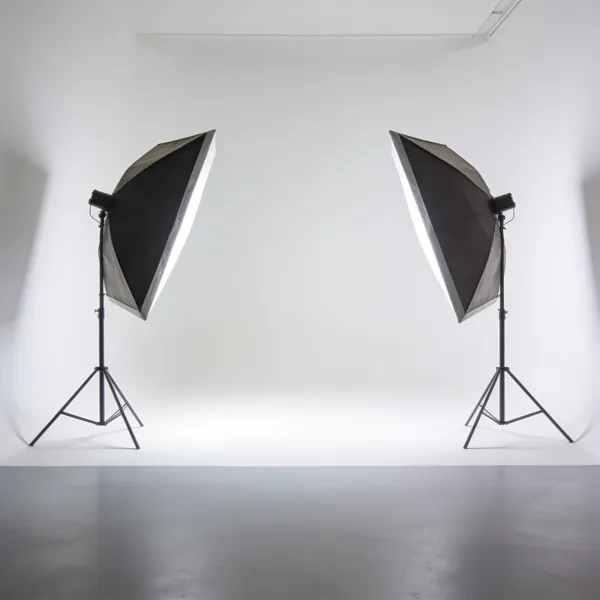
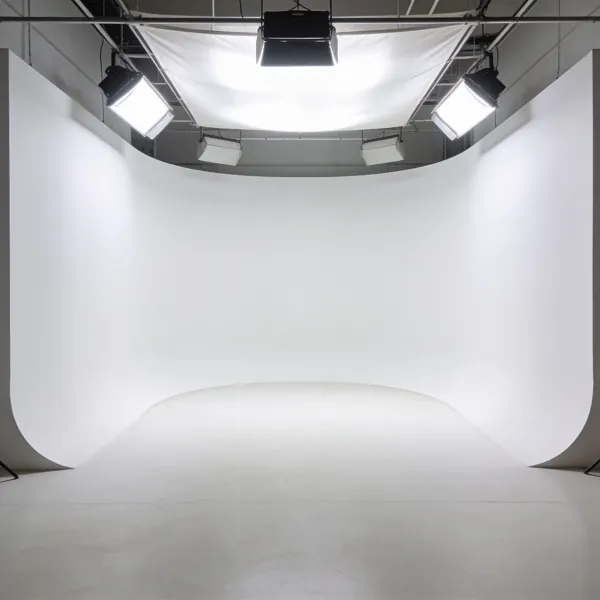
SEO landing: P_008 descritto come coda dei tipi affini, vicine ridotte da data-on, partial e variabili @ non opzionali in silenzio, home su URL/hreflang/switch da mappa, sfondo studio pulito, verify (vicine, sitemap, footer condizioni)

diff --git a/src/styles.css b/src/styles.css
@@ -208,7 +208,7 @@
   .pills::-webkit-scrollbar { display: none; }
   .pills button { position: relative; flex: none; min-height: 2.75rem; padding-inline: 1rem; border-radius: 9999px; font: 600 0.95rem var(--font-display); color: var(--color-dusk); transition: color 0.3s; }
   .pills button[aria-current="true"] { color: var(--color-cream); }
-  .pillbar { position: absolute; left: 0; top: 0; height: 2.75rem; border-radius: 9999px; background: rgba(255, 255, 255, 0.12); border: 1px solid rgba(255, 255, 255, 0.2);}
+  .pillbar { position: absolute; left: 0; top: 0; height: 2.75rem; border-radius: 9999px; background: rgba(255, 255, 255, 0.12); border: 1px solid rgba(255, 255, 255, 0.2); }
   .arrow { display: grid; place-items: center; width: 3rem; height: 3rem; border-radius: 9999px; border: 1px solid rgba(255, 255, 255, 0.25); font-size: 1.25rem; transition: background-color 0.2s, opacity 0.2s; }
   .arrow[aria-disabled="true"] { opacity: 0.3; }
   .arrow:not([aria-disabled="true"]):hover { background: rgba(255, 255, 255, 0.1); }
@@ -220,6 +220,7 @@
   .svc .num { margin-bottom: 0.75rem; font: 400 3.5rem / 1 var(--font-serif); letter-spacing: -0.02em; color: var(--color-primary); }
   .svc h3 { margin-top: 1.25rem; font: 700 1.375rem / 1.25 var(--font-display); }
   .svc .txt { flex: 1; margin-top: 0.5rem; font-size: 1rem; line-height: 1.55; color: var(--color-muted); }
+  html.js .svc:not([data-on]) { scale: 0.92; opacity: 0.5; }
   .more { display: inline-flex; align-items: center; gap: 0.5rem; width: fit-content; min-height: 2.75rem; margin-top: 0.75rem; font: 600 1rem var(--font-display); color: var(--color-primary); }
   .more i { font-style: normal; transition: translate 0.3s var(--ease-out-expo); }
   .more:hover i { translate: 0.35rem 0; }
@@ -242,8 +243,8 @@
   .agent small { display: block; font: 600 0.65rem var(--font-display); letter-spacing: 0.08em; text-transform: uppercase; color: #15803d; }
   .swap { display: grid; }
   .swap > * { grid-area: 1 / 1; }
-  .dots { display: flex; gap: 0.25rem; width: fit-content; }
-  .typing { display: flex; align-items: center; gap: 0.25rem; width: fit-content; opacity: 0; }
+  .dots, .typing { display: flex; align-items: center; gap: 0.25rem; width: fit-content; }
+  .typing { opacity: 0; }
   .typing i, .dots i { width: 0.4rem; height: 0.4rem; border-radius: 9999px; background: var(--color-muted); }
   .sq .rail, .th .rail { container-type: inline-size; }
   .sq .pcard, .th .pcard { flex: 0 0 6.75rem; }
@@ -253,7 +254,6 @@
   .sq .pmeta p, .th .pmeta p { display: block; font-size: 0.75rem; line-height: 1.25; }
   .sq .pmeta span, .th .pmeta span { display: block; color: var(--color-muted); }
   .mini .pcard { flex: 0 0 4rem; }
-  .mini .pmeta b { display: none; }
   .slide { display: flex; gap: 0.75rem; }
   .cycle { display: flex; flex-wrap: wrap; gap: 0.35rem; margin-bottom: 0.6rem; }
   .cycle .chip:first-child { background: var(--color-primary); color: #fff; }
@@ -266,7 +266,7 @@
   .ba-new { position: absolute; inset: 0; z-index: 1; overflow: hidden; translate: 50% 0; }
   .ba-new::before { content: ""; position: absolute; inset: 0 auto 0 0; z-index: 2; width: 2px; background: #fff; box-shadow: 0 0 12px rgba(0, 0, 0, 0.3); }
   .ba-in { position: absolute; inset: 0; translate: -50% 0; }
-  .ba-in .bg { object-fit: cover; }
+  .ba-in .bg { object-fit: cover; object-position: 50% 80%; }
   .ba-in .fg { mix-blend-mode: multiply; }
   .floor { position: absolute; inset: auto 22% 7% 22%; height: 7%; border-radius: 50%; background: rgba(40, 20, 0, 0.45); filter: blur(7px); }
   .vis .ba .chip { position: absolute; z-index: 3; bottom: 0.6rem; background: rgba(255, 255, 255, 0.92); box-shadow: 0 2px 8px rgba(0, 0, 0, 0.15); }
@@ -331,6 +331,7 @@ form.done > :not([role="status"], [data-done]), form:not(.done) [data-done] { di
   html { scroll-behavior: smooth; }
   .ctx { transition: opacity 0.5s var(--ease-out-expo), translate 0.5s var(--ease-out-expo); }
   .tabbar { transition: transform 0.4s var(--ease-out-expo); }
+  .svc { transition: scale 0.4s var(--ease-out-expo), opacity 0.4s; }
   .pillbar { transition: transform 0.4s var(--ease-out-expo), width 0.4s var(--ease-out-expo); }
   html.js [data-reveal], html.js [data-reveal-stagger] > * { opacity: 0; transform: translateY(28px) scale(0.98); filter: blur(10px); }
   html.js [data-split] { visibility: hidden; }
@@ -369,9 +370,6 @@ form.done > :not([role="status"], [data-done]), form:not(.done) [data-done] { di
     & .bars > span::before { animation: grow 0.8s var(--ease-out-expo) both; animation-delay: calc(0.9s + var(--b) * 0.12s); }
     & .shop { animation: float 5s ease-in-out infinite alternate; animation-delay: calc(var(--o) * -1.7s); }
   }
-  @supports (animation-timeline: view(inline)) {
-    .svc { animation: focus linear both; animation-timeline: view(inline); }
-  }
   @keyframes pop { from { opacity: 0; translate: 0 0.75rem; } }
   @keyframes typ { 0%, 100% { opacity: 0; } 15%, 85% { opacity: 1; } }
   @keyframes blink { 50% { opacity: 0.3; } }
@@ -384,7 +382,6 @@ form.done > :not([role="status"], [data-done]), form:not(.done) [data-done] { di
   @keyframes draw { from { stroke-dashoffset: 1; } }
   @keyframes grow { from { scale: 1 0; } }
   @keyframes float { to { transform: translateY(-5px); } }
-  @keyframes focus { 0%, 100% { scale: 0.92; opacity: 0.5; } 30%, 70% { scale: 1; opacity: 1; } }
 }
 
 @media (prefers-reduced-motion: reduce) {

diff --git a/vite.config.ts b/vite.config.ts
@@ -31,13 +31,17 @@ const twins = (dir: string) => (pages[dir].lang === "it" ? [dir, pages[dir].pair
 const render = (html: string, dir: string): string => {
   const { lang, id = "", pair } = pages[dir];
   const [it, en] = pair === undefined ? [dir, dir] : twins(dir);
-  const vars: Record<string, string> = { url: url(dir), it: url(it), en: url(en), other: `/${pair && `${pair}/`}`, otherLang: lang === "it" ? "en" : "it" };
+  const vars: Record<string, string> = { url: url(dir), it: url(it), en: url(en), otherLang: lang === "it" ? "en" : "it", ...(pair === undefined ? {} : { other: `/${pair && `${pair}/`}` }) };
   return html.replace(/\{\{(>?)([\w.$@-]+)\}\}/g, (_match, partial: string, key: string) => {
-    if (key.startsWith("@")) return vars[key.slice(1)];
+    if (key.startsWith("@")) {
+      if (!(key.slice(1) in vars)) throw new Error(`Variabile sconosciuta in ${dir || "home"}: ${key}`);
+      return vars[key.slice(1)];
+    }
     if (partial) {
       const name = key.replace("$id", id).replace("$lang", lang);
       const file = `src/partials/${name}.html`;
-      return (name.startsWith("pair-") && pair === undefined) || !existsSync(file) ? "" : render(readFileSync(file, "utf8"), dir);
+      const optional = (name.startsWith("pair-") && pair === undefined) || (name.startsWith("legal-") && !existsSync(file));
+      return optional ? "" : render(readFileSync(file, "utf8"), dir);
     }
     const full = key.startsWith("p.") ? `seo.${id}.${key.slice(2)}` : key;
     if (!(full in locales[lang])) throw new Error(`Chiave mancante in ${lang}.json: ${full}`);
@@ -50,7 +54,10 @@ const sitemap = `<?xml version="1.0" encoding="UTF-8"?>
 <urlset xmlns="http://www.sitemaps.org/schemas/sitemap/0.9" xmlns:xhtml="http://www.w3.org/1999/xhtml">
 ${Object.entries(pages)
   .filter(([, page]) => page.listed !== false)
-  .map(([dir, { pair }]) => `  <url>\n    <loc>${url(dir)}</loc>\n${pair === undefined ? "" : alternate("it", twins(dir)[0]) + alternate("en", twins(dir)[1]) + alternate("x-default", twins(dir)[0])}  </url>\n`)
+  .map(([dir, { pair }]) => {
+    const [it, en] = twins(dir);
+    return `  <url>\n    <loc>${url(dir)}</loc>\n${pair === undefined ? "" : alternate("it", it) + alternate("en", en) + alternate("x-default", it)}  </url>\n`;
+  })
   .join("")}</urlset>`;
 
 export default defineConfig({

diff --git a/src/page.html b/src/page.html
@@ -5,15 +5,13 @@
   <meta name="viewport" content="width=device-width, initial-scale=1" />
   <title>{{meta.title}}</title>
   <meta name="description" content="{{meta.description}}" />
-  <link rel="canonical" href="{{meta.url}}" />
-  <link rel="alternate" hreflang="it" href="https://www.neurocart.it/" />
-  <link rel="alternate" hreflang="en" href="https://www.neurocart.it/en/" />
-  <link rel="alternate" hreflang="x-default" href="https://www.neurocart.it/" />
+  <link rel="canonical" href="{{@url}}" />
+  {{>pair-hreflang}}
   <meta name="theme-color" content="#0A0613" />
   <meta property="og:type" content="website" />
   <meta property="og:locale" content="{{meta.locale}}" />
   <meta property="og:site_name" content="Neurocart" />
-  <meta property="og:url" content="{{meta.url}}" />
+  <meta property="og:url" content="{{@url}}" />
   <meta property="og:title" content="{{meta.title}}" />
   <meta property="og:description" content="{{meta.description}}" />
   <meta property="og:image" content="{{meta.image}}" />
@@ -48,7 +46,7 @@
         <a href="#motore">{{nav.02}}</a><a href="#chat">{{nav.03}}</a><a href="#piattaforma">{{nav.04}}</a><a href="#prezzi">{{nav.05}}</a><a href="#in-arrivo">{{nav.06}}</a>
       </nav>
       <div class="flex items-center gap-2">
-        <a href="{{switch.href}}" hreflang="{{switch.lang}}" lang="{{switch.lang}}" class="text-[0.95rem] font-semibold">{{switch.label}}</a>
+        {{>pair-switch}}
         <a href="%VITE_APP_URL%/auth" class="btn btn-ghost hidden sm:inline-flex">{{nav.07}}</a>
         <a href="#accesso" class="btn btn-primary h-10 whitespace-nowrap px-4 text-sm sm:h-12 sm:px-6 sm:text-base" data-cta data-install="{{cta.install}}">{{nav.08}}</a>
       </div>

diff --git a/src/partials/chatbot.html b/src/partials/chatbot.html
@@ -1,7 +1,7 @@
 <div class="sc sq mini">
   <p class="bubble bubble-user" style="--i:0">{{chat.10}}</p>
   <div class="swap" style="--i:1"><p class="bubble bubble-bot typing"><i></i><i></i><i></i></p><p class="bubble bubble-bot">{{chat.11}}</p></div>
-  <div class="rail p-0" style="--i:3"><article class="pcard"><div class="pimg"><img src="/img/jacket.webp" alt="" width="800" height="1000" loading="lazy" decoding="async"></div><div class="pmeta"><p><b class="font-medium">{{engine.11}}</b><span>{{engine.12}}</span></p></div></article><article class="pcard"><div class="pimg"><img src="/img/crewneck.webp" alt="" width="800" height="1000" loading="lazy" decoding="async"></div><div class="pmeta"><p><b class="font-medium">{{engine.15}}</b><span>{{engine.16}}</span></p></div></article></div>
+  <div class="rail p-0" style="--i:3"><article class="pcard"><div class="pimg"><img src="/img/jacket.webp" alt="" width="800" height="1000" loading="lazy" decoding="async"></div><div class="pmeta"><p><span>{{engine.12}}</span></p></div></article><article class="pcard"><div class="pimg"><img src="/img/crewneck.webp" alt="" width="800" height="1000" loading="lazy" decoding="async"></div><div class="pmeta"><p><span>{{engine.16}}</span></p></div></article></div>
   <p class="bubble bubble-user" style="--i:4">{{chat.12}}</p>
   <p class="bubble bubble-bot dots" style="--i:5"><i></i><i></i><i></i></p>
 </div>
